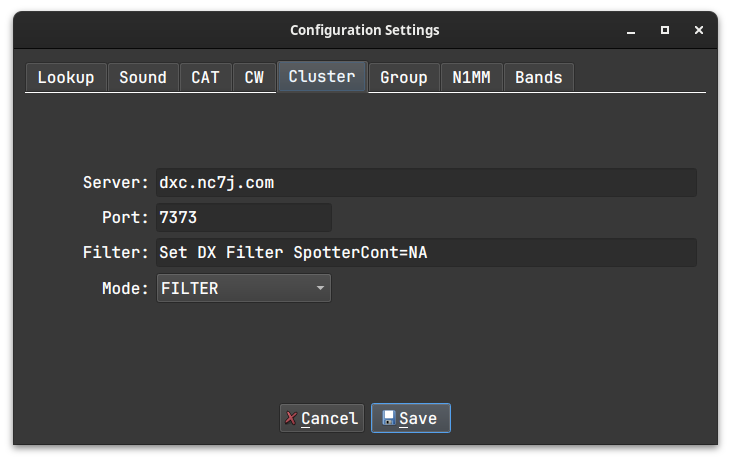
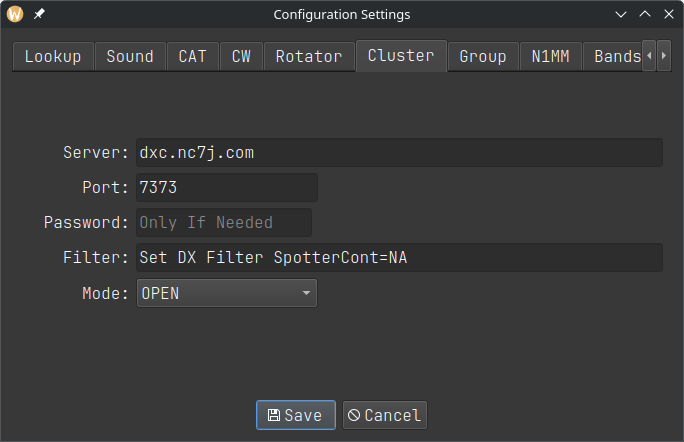
Update docs for renfield group server.

Changed region(s): [[0.0, 0.0, 1.0, 1.0], [0.0614, 0.3235, 0.614, 0.6765]]

diff --git a/README.md b/README.md
@@ -50,6 +50,8 @@
     - [CAT Control](#cat-control)
     - [CW Keyer Interface](#cw-keyer-interface)
     - [Cluster](#cluster)
+    - [Rotator](#rotator)
+    - [Group (The super sketchy not ready for prime time tab)](#group-the-super-sketchy-not-ready-for-prime-time-tab)
     - [N1MM Packets](#n1mm-packets)
     - [Bands](#bands)
     - [Options](#options)
@@ -360,10 +362,22 @@ Length` (default: 3) or specify no padding by entering length "0".
 
 ### Cluster
 
-![Configuration Settings screen](https://github.com/mbridak/not1mm/raw/master/pic/configuration_cluster.png)
+![Configuration Settings Screen](https://github.com/mbridak/not1mm/raw/master/pic/configuration_cluster.png)
 
 Under the `Cluster` tab you can change the default AR Cluster server, port, and
 filter settings used for the bandmap window.
+
+### Rotator
+
+![Configuration Rotator Screen](https://github.com/mbridak/not1mm/raw/master/pic/configuration_rotator.png)
+
+### Group (The super sketchy not ready for prime time tab)
+
+![Configuration Group Screen](https://github.com/mbridak/not1mm/raw/master/pic/configuration_group.png)
+
+The `Group` cluster has settings for talking to the [renfield](https://github.com/mbridak/renfield) server. The server can be used either by a multi op group or a single person. If used by a single person, think of it like back-up logging storage. If your contesting PC dies in the middle of a contest you can save out a Cabrillo log from it.
+
+If your contest settings are for Multi-Multi, Not1MM will pull contest serial numbers from renfield.
 
 ### N1MM Packets
 
